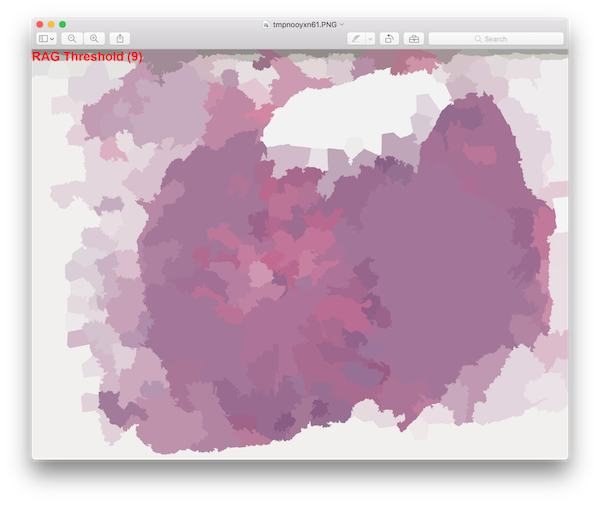
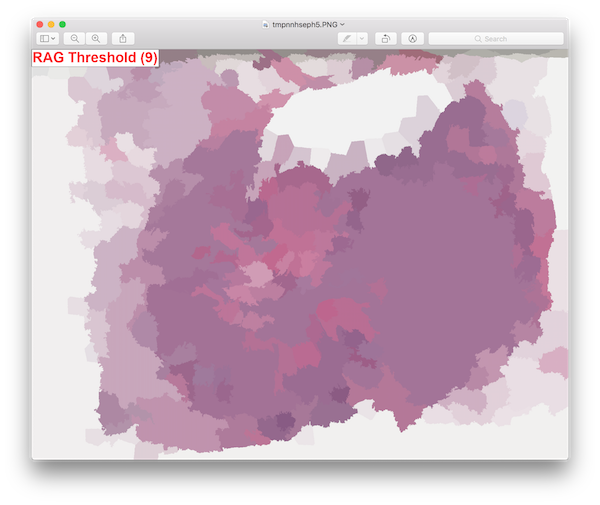
RAG threshold doc updates

diff --git a/docs/index.md b/docs/index.md
@@ -1299,14 +1299,14 @@ Here, we perform k-means segmentation, build a RAG, and apply different RAG thre
 ```
 img_path = slide.get_training_image_path(2)
 img = slide.open_image(img_path)
-rgb = pil_to_np_rgb(img)
-display_img(rgb, "Original")
-rag_thresh = filter_rag_threshold(rgb)
-display_img(rag_thresh, "RAG Threshold (9)")
-rag_thresh = filter_rag_threshold(rgb, threshold=1)
-display_img(rag_thresh, "RAG Threshold (1)")
-rag_thresh = filter_rag_threshold(rgb, threshold=20)
-display_img(rag_thresh, "RAG Threshold (20)")
+rgb = util.pil_to_np_rgb(img)
+util.display_img(rgb, "Original", bg=True)
+rag_thresh = filter.filter_rag_threshold(rgb)
+util.display_img(rag_thresh, "RAG Threshold (9)", bg=True)
+rag_thresh = filter.filter_rag_threshold(rgb, threshold=1)
+util.display_img(rag_thresh, "RAG Threshold (1)", bg=True)
+rag_thresh = filter.filter_rag_threshold(rgb, threshold=20)
+util.display_img(rag_thresh, "RAG Threshold (20)", bg=True)
 ```
 
 | **Original Slide** | **RAG Threshold = 9** |
@@ -1323,10 +1323,10 @@ Even using the default 800 number of segments for the k-means segmentation, we s
 computationally expensive.
 
 ```
-RGB                  | Time: 0:00:00.202184  Type: uint8   Shape: (1567, 2048, 3)
-RAG Threshold        | Time: 0:00:30.311410  Type: uint8   Shape: (1567, 2048, 3)
-RAG Threshold        | Time: 0:00:32.604226  Type: uint8   Shape: (1567, 2048, 3)
-RAG Threshold        | Time: 0:00:28.637301  Type: uint8   Shape: (1567, 2048, 3)
+RGB                  | Time: 0:00:00.462239  Type: uint8   Shape: (1385, 1810, 3)
+RAG Threshold        | Time: 0:00:24.677776  Type: uint8   Shape: (1385, 1810, 3)
+RAG Threshold        | Time: 0:00:26.683581  Type: uint8   Shape: (1385, 1810, 3)
+RAG Threshold        | Time: 0:00:23.774296  Type: uint8   Shape: (1385, 1810, 3)
 ```
 
 
